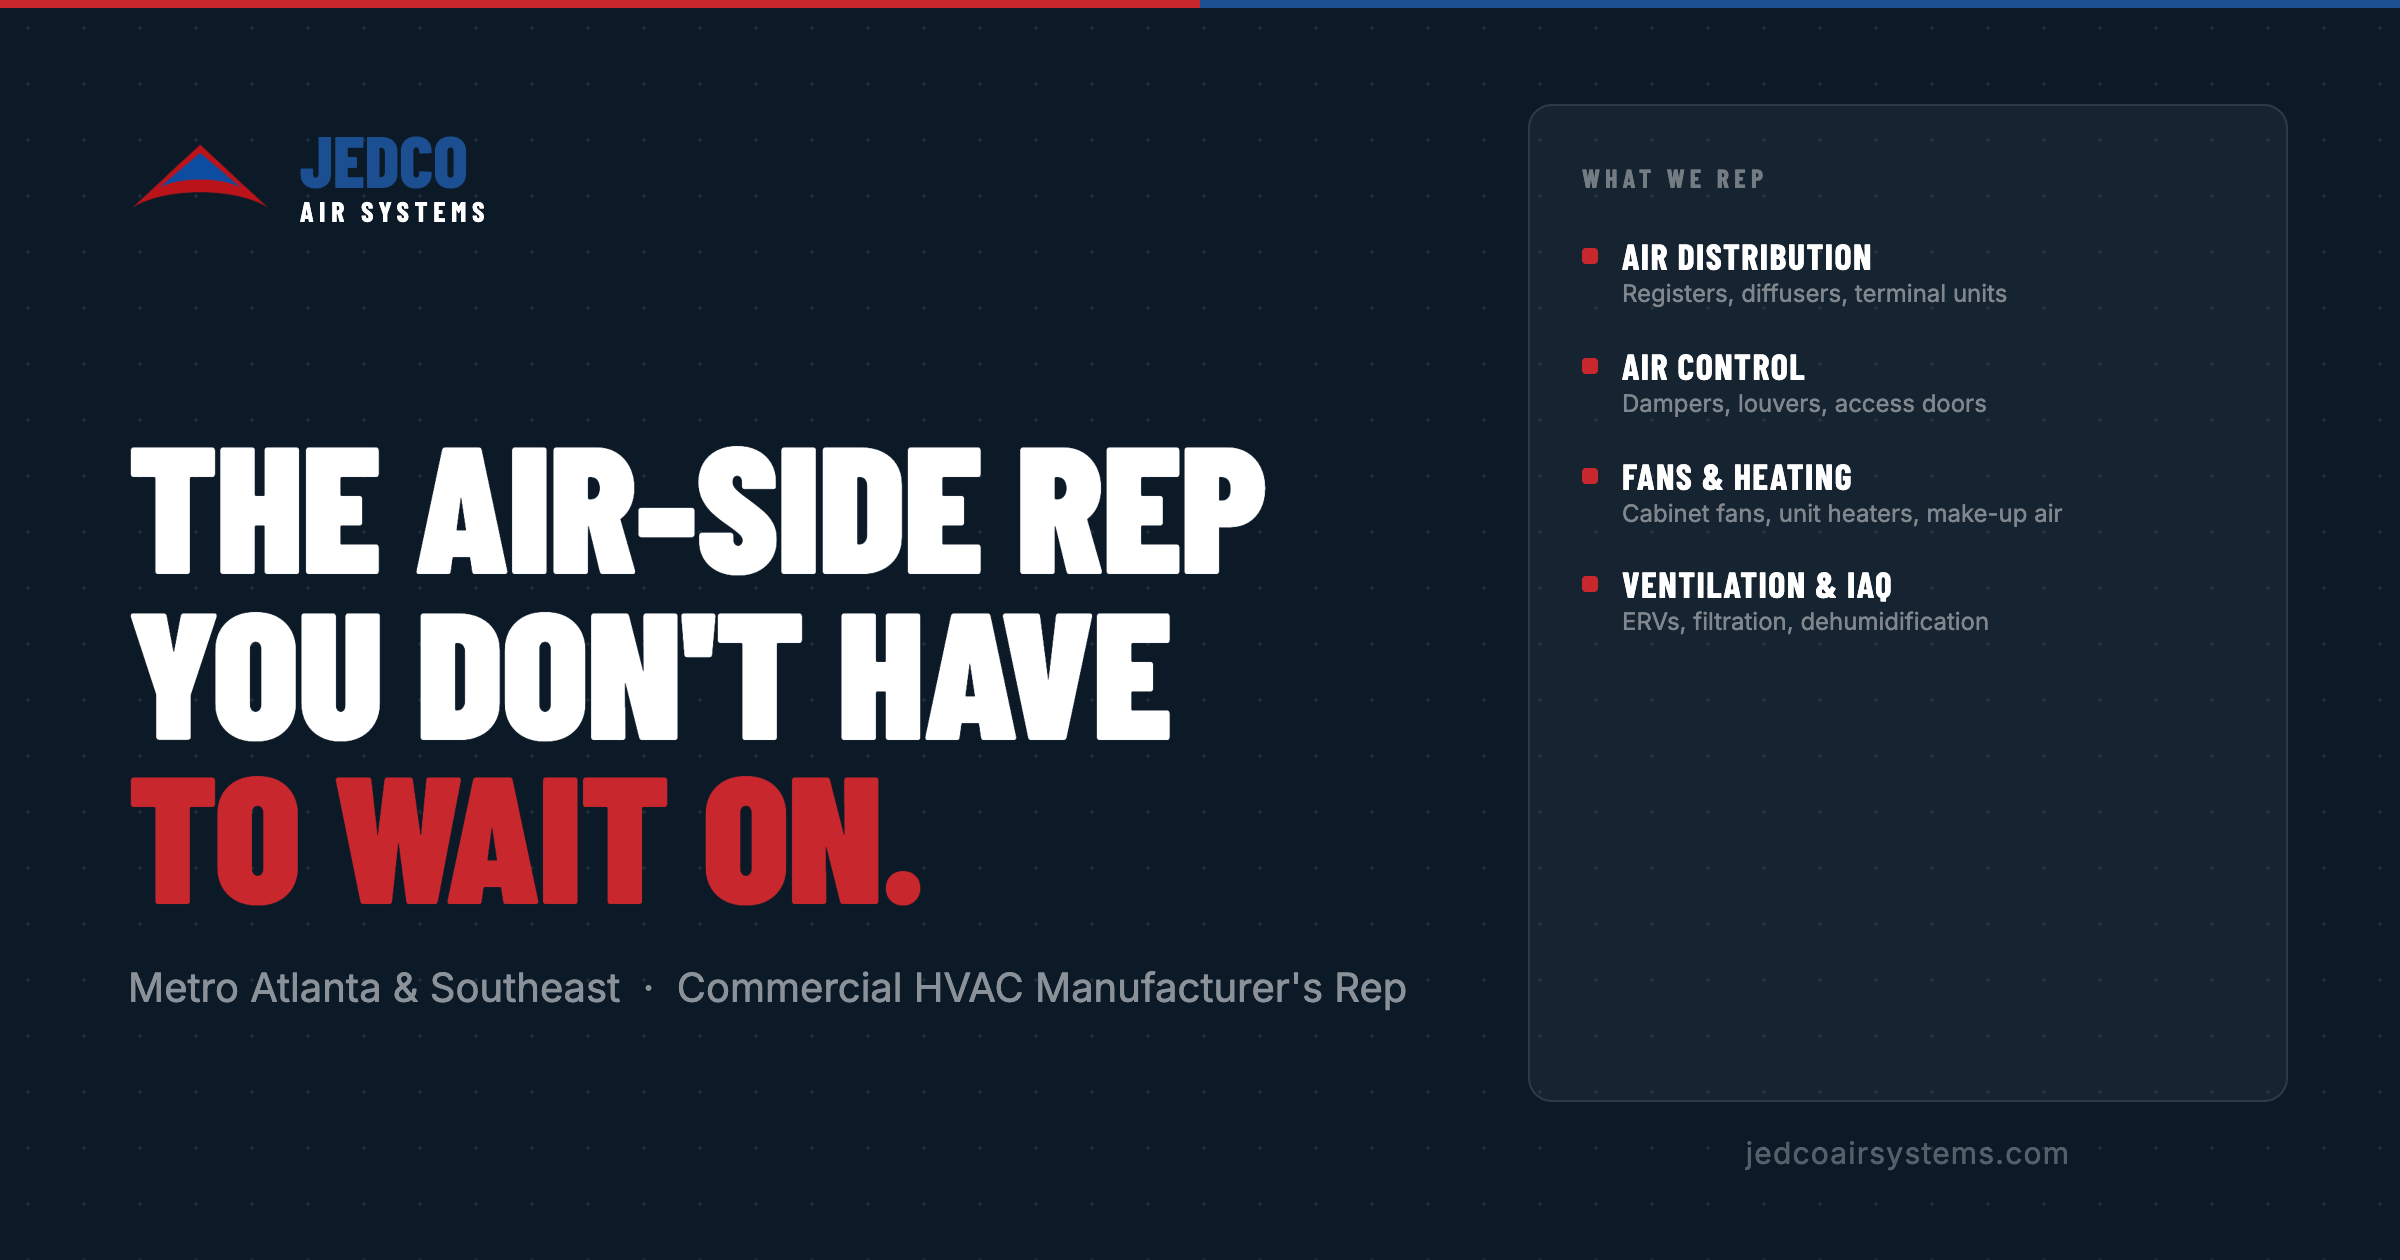
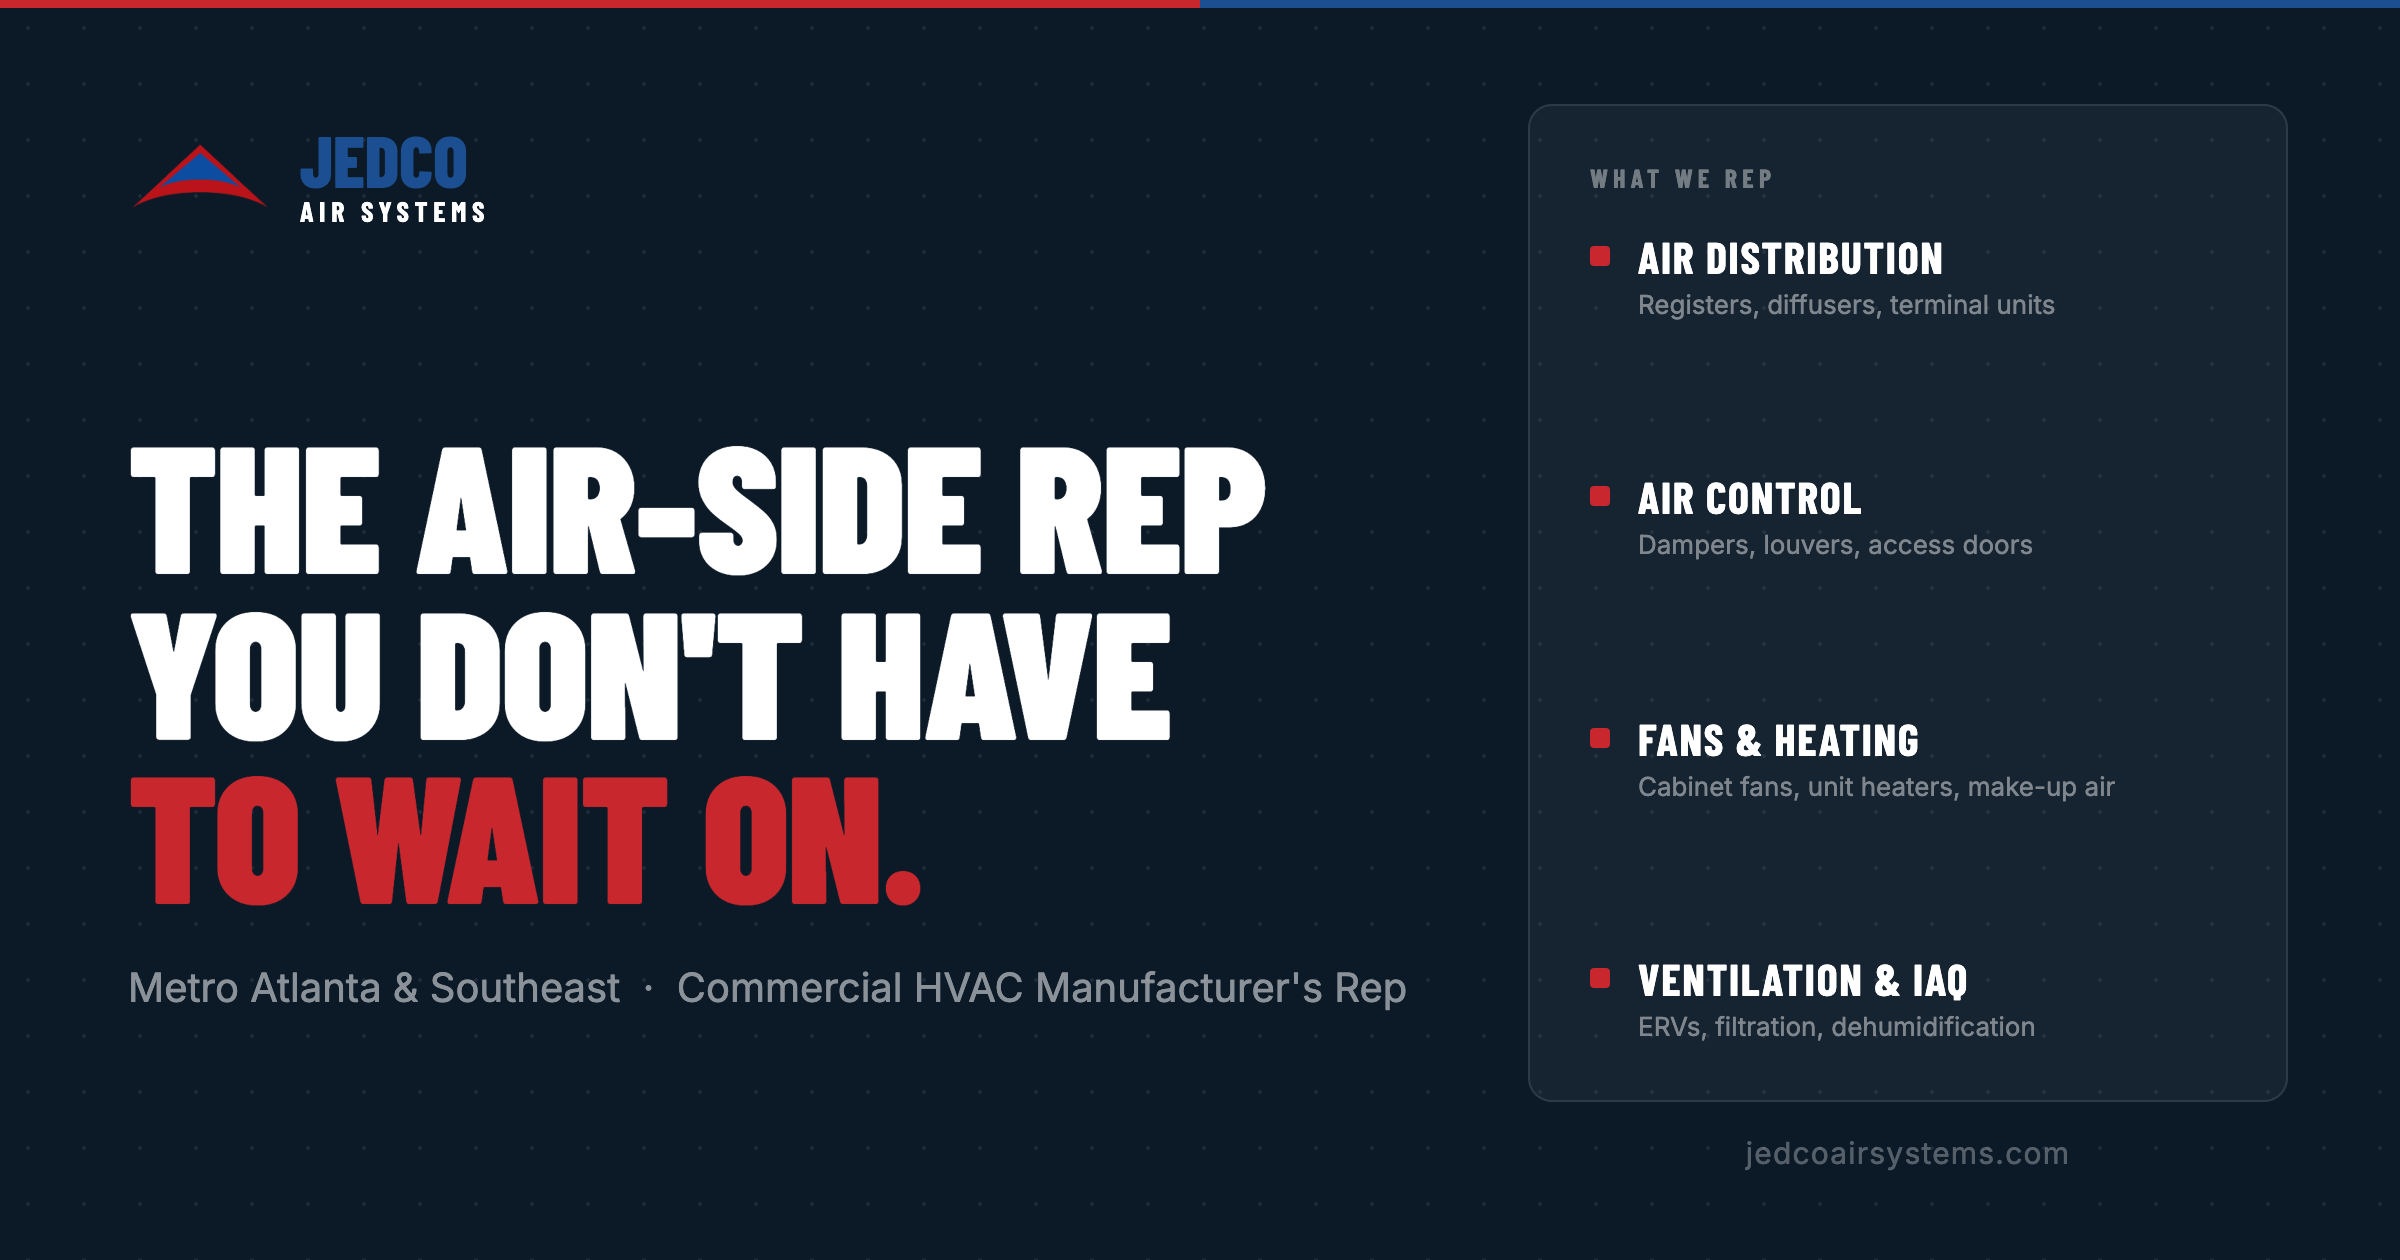
Fix right panel spacing — distribute categories evenly

diff --git a/generate-og.js b/generate-og.js
@@ -103,31 +103,31 @@ const html = `<!DOCTYPE html>
     background: rgba(255,255,255,0.04);
     border: 1px solid rgba(255,255,255,0.1);
     border-radius: 12px;
-    padding: 28px 26px;
-    display: flex; flex-direction: column; gap: 18px;
+    padding: 28px 30px;
+    display: flex; flex-direction: column; justify-content: space-between;
   }
   .panel-label {
     font-family: 'Barlow Condensed', sans-serif;
     font-weight: 700; font-size: 13px;
     letter-spacing: 0.2em; text-transform: uppercase;
     color: rgba(255,255,255,0.4);
-    margin-bottom: 4px;
   }
-  .category { display: flex; align-items: flex-start; gap: 12px; }
+  .categories { display: flex; flex-direction: column; justify-content: space-between; flex: 1; margin-top: 20px; }
+  .category { display: flex; align-items: flex-start; gap: 14px; }
   .cat-bullet {
-    width: 8px; height: 8px; border-radius: 2px;
-    background: #C8272D; flex-shrink: 0; margin-top: 5px;
+    width: 10px; height: 10px; border-radius: 2px;
+    background: #C8272D; flex-shrink: 0; margin-top: 6px;
   }
-  .cat-body { display: flex; flex-direction: column; gap: 2px; }
+  .cat-body { display: flex; flex-direction: column; gap: 4px; }
   .cat-title {
     font-family: 'Barlow Condensed', sans-serif;
-    font-weight: 700; font-size: 18px;
+    font-weight: 700; font-size: 22px;
     color: #ffffff; text-transform: uppercase;
     letter-spacing: 0.04em; line-height: 1;
   }
   .cat-desc {
     font-family: 'Inter', sans-serif;
-    font-size: 12px; color: rgba(255,255,255,0.45);
+    font-size: 13px; color: rgba(255,255,255,0.45);
     line-height: 1.4;
   }
 
@@ -169,35 +169,37 @@ const html = `<!DOCTYPE html>
       <div class="right-panel">
         <div class="panel-label">What We Rep</div>
 
-        <div class="category">
-          <div class="cat-bullet"></div>
-          <div class="cat-body">
-            <div class="cat-title">Air Distribution</div>
-            <div class="cat-desc">Registers, diffusers, terminal units</div>
+        <div class="categories">
+          <div class="category">
+            <div class="cat-bullet"></div>
+            <div class="cat-body">
+              <div class="cat-title">Air Distribution</div>
+              <div class="cat-desc">Registers, diffusers, terminal units</div>
+            </div>
           </div>
-        </div>
 
-        <div class="category">
-          <div class="cat-bullet"></div>
-          <div class="cat-body">
-            <div class="cat-title">Air Control</div>
-            <div class="cat-desc">Dampers, louvers, access doors</div>
+          <div class="category">
+            <div class="cat-bullet"></div>
+            <div class="cat-body">
+              <div class="cat-title">Air Control</div>
+              <div class="cat-desc">Dampers, louvers, access doors</div>
+            </div>
           </div>
-        </div>
 
-        <div class="category">
-          <div class="cat-bullet"></div>
-          <div class="cat-body">
-            <div class="cat-title">Fans &amp; Heating</div>
-            <div class="cat-desc">Cabinet fans, unit heaters, make-up air</div>
+          <div class="category">
+            <div class="cat-bullet"></div>
+            <div class="cat-body">
+              <div class="cat-title">Fans &amp; Heating</div>
+              <div class="cat-desc">Cabinet fans, unit heaters, make-up air</div>
+            </div>
           </div>
-        </div>
 
-        <div class="category">
-          <div class="cat-bullet"></div>
-          <div class="cat-body">
-            <div class="cat-title">Ventilation &amp; IAQ</div>
-            <div class="cat-desc">ERVs, filtration, dehumidification</div>
+          <div class="category">
+            <div class="cat-bullet"></div>
+            <div class="cat-body">
+              <div class="cat-title">Ventilation &amp; IAQ</div>
+              <div class="cat-desc">ERVs, filtration, dehumidification</div>
+            </div>
           </div>
         </div>
       </div>
